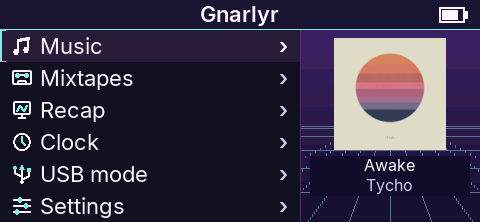
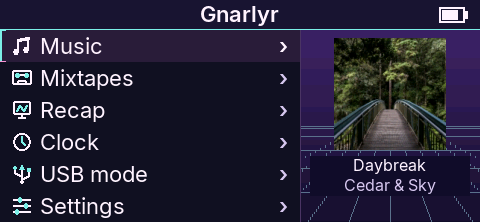
fix(site): use royalty-free artwork in demonstration screenshots

Changed region(s): [[0.6875, 0.1622, 0.9375, 0.6757], [0.7188, 0.7027, 0.9062, 0.7838], [0.7188, 0.8108, 0.9062, 0.8649]]

diff --git a/tools/site_screenshots.py b/tools/site_screenshots.py
@@ -117,7 +117,7 @@ def create_demo(config, work, env, source_root=ROOT):
     card.mkdir()
     demo = config.get("demo", {})
     tracks = demo.get("tracks", [])
-    artwork = artwork_albums() if demo.get("real_albums") else None
+    artwork = artwork_albums() if demo.get("licensed_artwork") else None
     if not 1 <= len(tracks) <= 32:
         raise ValueError("Demo needs 1–32 tracks")
     for index, track in enumerate(tracks):
@@ -219,7 +219,7 @@ def render_case(case, context):
     if case.get("combined_library"):
         internal = work / (case["name"] + "-internal")
         internal.mkdir()
-        shutil.copyfile(next(card.glob("*/*.flac")), internal / "A Walk.flac")
+        shutil.copyfile(next(card.glob("*/*.flac")), internal / "Sample.flac")
         run([source_root / "firmware/.venv/bin/python", source_root / "firmware/tools/library_index.py",
              "--music", card, "--internal", internal, "--output", system / "library.db"],
             work / (case["name"] + "-index.log"), env)

diff --git a/tools/site_album_art.py b/tools/site_album_art.py
@@ -1,4 +1,4 @@
-"""Fetch the pinned real album covers used by website screenshot fixtures."""
+"""Fetch the pinned royalty-free artwork used by website screenshot fixtures."""
 import hashlib
 import json
 from pathlib import Path

diff --git a/site/README.md b/site/README.md
@@ -121,4 +121,4 @@ All nine public pages load the deferred `analytics.js` sender for the shared Uma
 
 ## Album artwork in screenshots
 
-Both capture tools use the real album metadata, cover URLs, source links, and SHA-256 pins in `tools/site_album_art.json`. `tools/site_album_art.py` caches the JPEGs on Scratch and refuses changed bytes. Captures embed these covers in generated FLACs; no third-party audio is downloaded or distributed. The player fixtures use Tycho’s Dive and Awake. The desktop library contains ten real albums. Keep source covers and generated audio on Scratch; only the finished product screenshots belong in `site/assets/`. Artwork remains the property of its respective owners.
+Both capture tools use fictional sample albums with royalty-free photographs, source URLs, license links, and SHA-256 pins recorded in `tools/site_album_art.json`. The photographs are used under the [Unsplash License](https://unsplash.com/license), which permits free commercial use and modification. These are demonstration covers, not artwork from commercial music releases. `tools/site_album_art.py` caches the JPEGs on Scratch and refuses changed bytes. Captures embed the artwork in generated FLACs; no third-party audio is downloaded or distributed. Keep source photographs and generated audio on Scratch; only finished product screenshots belong in `site/assets/`.

diff --git a/docs/deployment.md b/docs/deployment.md
@@ -19,8 +19,10 @@ regenerate them with `tools/site_screenshots.py` before publishing interface cha
 | Primary URL | https://gnarlyr.com; www redirects to the apex |
 | Secondary validation URL | https://gnarlyr.apps.doublesharp.com |
 | Origin address | `159.89.222.183` |
[3 lines of base64/hex data omitted]
+
+The rollback above predates the commercial album-cover captures and retains the original demonstration artwork.
 
 This is a user-defined Compose Service with normal Coolify parsing, not a
 Git-backed Application. `site/deploy/compose.yaml` owns the runtime, mounts,
